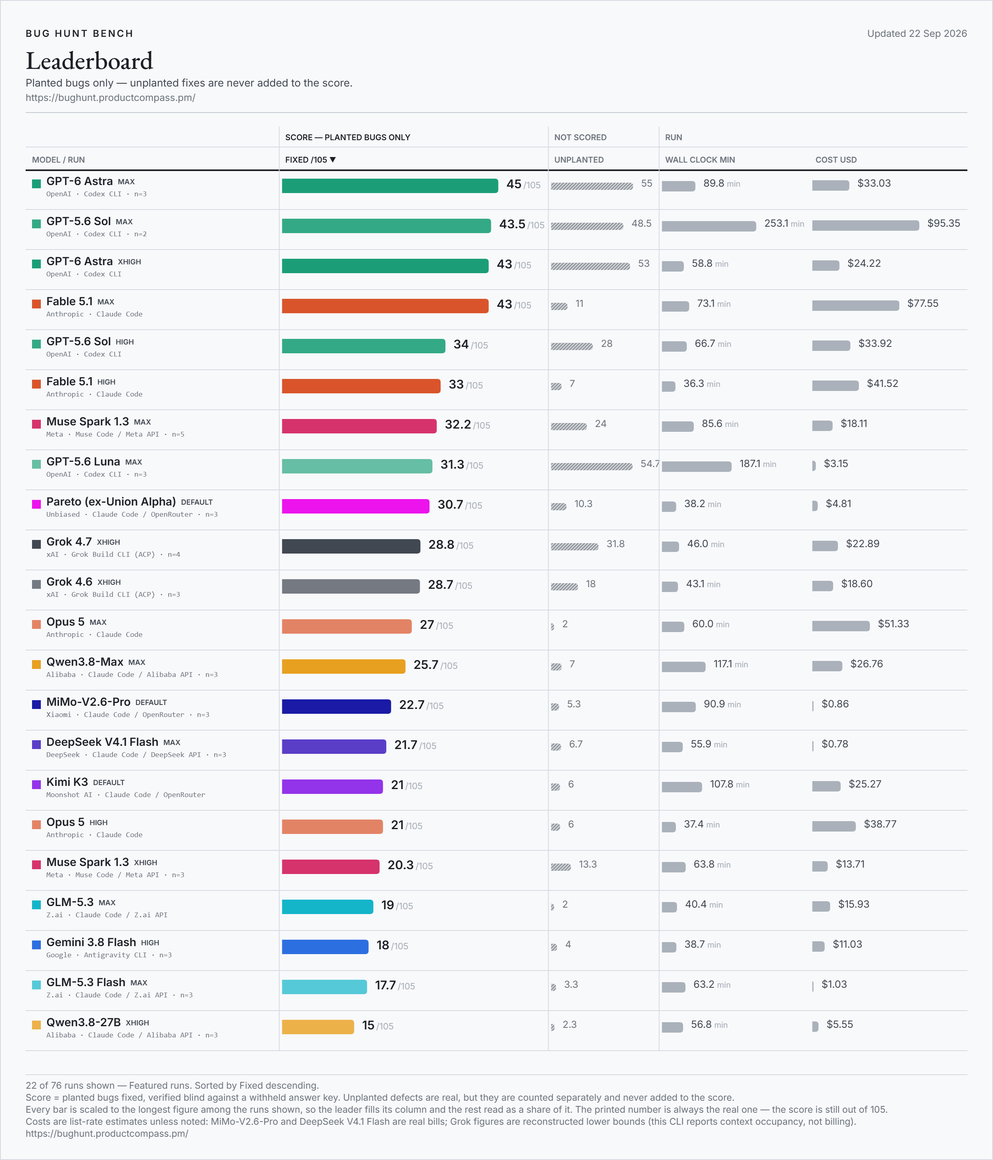
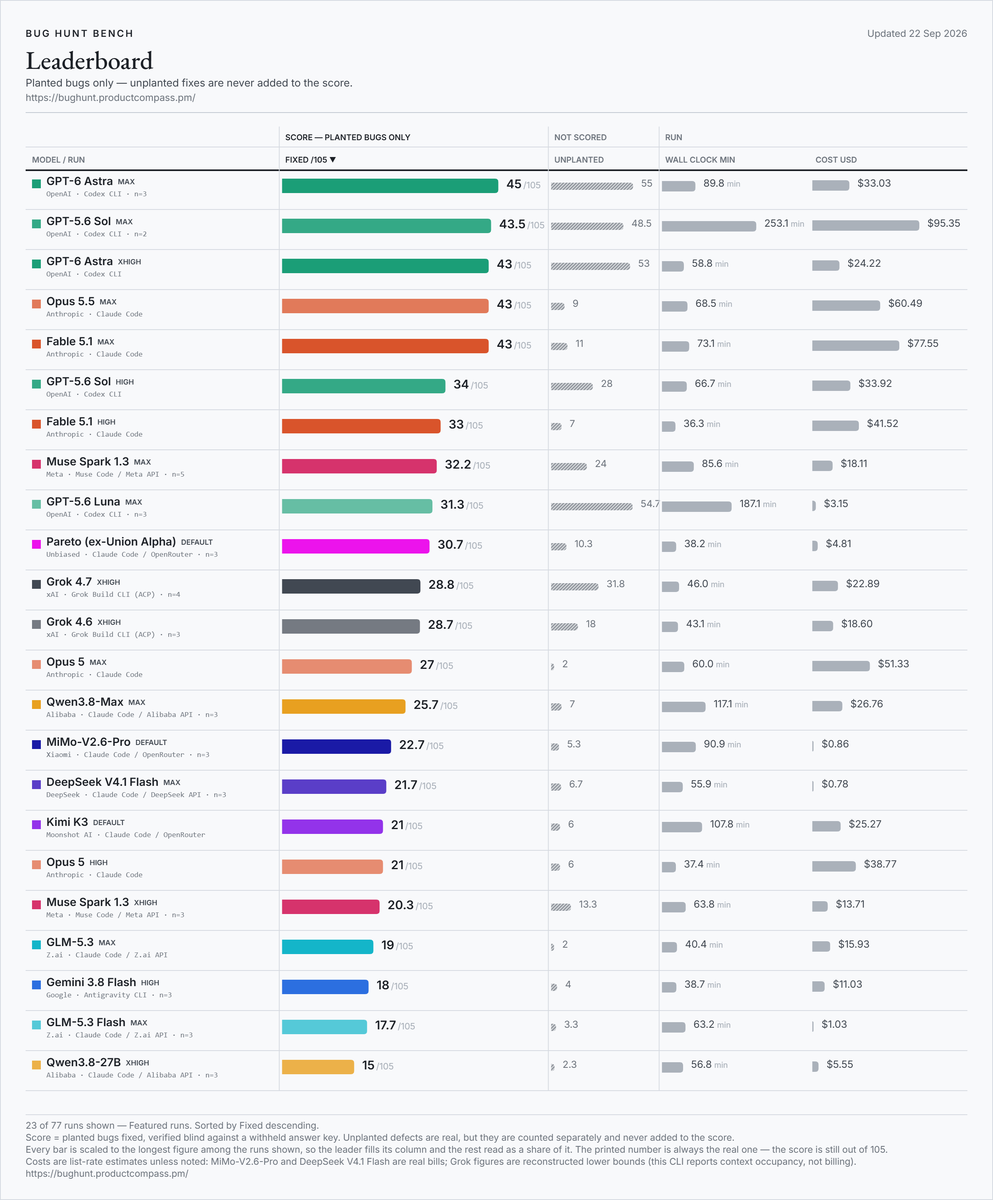
bug hunt bench: Opus 5.5 (max effort) (43/105)

diff --git a/index.html b/index.html
@@ -22,14 +22,14 @@
 <meta property="og:title" content="Bug Hunt Bench — frontier coding models against real planted bugs">
 <meta property="og:description" content="A blind-graded benchmark of frontier coding models on real bugs planted in two production codebases. The score counts planted bugs only; extra fixes are tracked separately and never added.">
 <meta property="og:url" content="https://bughunt.productcompass.pm/">
-<meta property="og:image" content="https://bughunt.productcompass.pm/og-image.png?v=2026-09-22-73a73a32">
+<meta property="og:image" content="https://bughunt.productcompass.pm/og-image.png?v=2026-09-22-9d6f25a9">
 <meta property="og:image:width" content="1200">
 <meta property="og:image:height" content="630">
 <meta property="og:image:alt" content="Bug Hunt Bench leaderboard">
 <meta name="twitter:card" content="summary_large_image">
 <meta name="twitter:title" content="Bug Hunt Bench — frontier coding models against real planted bugs">
 <meta name="twitter:description" content="A blind-graded benchmark of frontier coding models on real bugs planted in two production codebases. The score counts planted bugs only.">
-<meta name="twitter:image" content="https://bughunt.productcompass.pm/og-image.png?v=2026-09-22-73a73a32">
+<meta name="twitter:image" content="https://bughunt.productcompass.pm/og-image.png?v=2026-09-22-9d6f25a9">
 <meta name="twitter:creator" content="@PawelHuryn">
 
 <link rel="icon" href="/assets/favicon.svg" type="image/svg+xml">

diff --git a/method.html b/method.html
@@ -20,14 +20,14 @@
 <meta property="og:title" content="Method, caveats and definitions — Bug Hunt Bench">
 <meta property="og:description" content="How Bug Hunt Bench is run and graded, what the board cannot tell you, and what every column on it means.">
 <meta property="og:url" content="https://bughunt.productcompass.pm/method">
-<meta property="og:image" content="https://bughunt.productcompass.pm/og-image.png?v=2026-09-22-73a73a32">
+<meta property="og:image" content="https://bughunt.productcompass.pm/og-image.png?v=2026-09-22-9d6f25a9">
 <meta property="og:image:width" content="1200">
 <meta property="og:image:height" content="630">
 <meta property="og:image:alt" content="Bug Hunt Bench leaderboard">
 <meta name="twitter:card" content="summary_large_image">
 <meta name="twitter:title" content="Method, caveats and definitions — Bug Hunt Bench">
 <meta name="twitter:description" content="How Bug Hunt Bench is run and graded, what the board cannot tell you, and what every column on it means.">
-<meta name="twitter:image" content="https://bughunt.productcompass.pm/og-image.png?v=2026-09-22-73a73a32">
+<meta name="twitter:image" content="https://bughunt.productcompass.pm/og-image.png?v=2026-09-22-9d6f25a9">
 <meta name="twitter:creator" content="@PawelHuryn">
 
 <link rel="icon" href="/assets/favicon.svg" type="image/svg+xml">

diff --git a/README.md b/README.md
@@ -7,92 +7,93 @@
 If the numbers save you a benchmark run of your own, **star this repo** — that is what keeps the bench findable, and new models are added as they ship.
 
 <!-- leaderboard:start -->
-![Bug Hunt Bench leaderboard, the featured runs, updated Sep 22, 2026](assets/leaderboard.png?v=2026-09-22-a6f0254f)
+![Bug Hunt Bench leaderboard, the featured runs, updated Sep 22, 2026](assets/leaderboard.png?v=2026-09-22-f92f422d)
 
-**Updated Sep 22, 2026 · 113 rows from 167 scored runs · 34 models · 32 of 105 bugs have never been fixed by any model.**
+**Updated Sep 22, 2026 · 114 rows from 168 scored runs · 35 models · 32 of 105 bugs have never been fixed by any model.**
 
 **Current leader:** GPT-6 Astra at `max` effort — **45 / 105** (22/45 on repo 1, 23/60 on repo 2).
 
-**Best per lab:** OpenAI: GPT-6 Astra (`max`) 45 · Anthropic: Fable 5.1 (`max`) 43 · Meta: Muse Spark 1.3 (`max`) 32.2 · Unbiased: Pareto (ex-Union Alpha) (`default`) 30.7 · xAI: Grok 4.7 (`xhigh`) 28.8 · Alibaba: Qwen3.8-Flash (`max`) 26 · Xiaomi: MiMo-V2.6-Pro (`default`) 22.7 · Google: Gemini 3.7 Flash (`high`) 22 · DeepSeek: DeepSeek V4.1 Flash (`max`) 21.7 · Moonshot AI: Kimi K3 (`default`) 21 · Z.ai: GLM-5.3 (`max`) 19 · Tencent: Hy4 Preview (`default`) 18
+**Best per lab:** OpenAI: GPT-6 Astra (`max`) 45 · Anthropic: Opus 5.5 (`max`) 43 · Meta: Muse Spark 1.3 (`max`) 32.2 · Unbiased: Pareto (ex-Union Alpha) (`default`) 30.7 · xAI: Grok 4.7 (`xhigh`) 28.8 · Alibaba: Qwen3.8-Flash (`max`) 26 · Xiaomi: MiMo-V2.6-Pro (`default`) 22.7 · Google: Gemini 3.7 Flash (`high`) 22 · DeepSeek: DeepSeek V4.1 Flash (`max`) 21.7 · Moonshot AI: Kimi K3 (`default`) 21 · Z.ai: GLM-5.3 (`max`) 19 · Tencent: Hy4 Preview (`default`) 18
 
 | # | Model | Harness | Effort | Runs | Fixed /105 | Repo 1 /45 | Repo 2 /60 | Extras | Wall | Cost | Date |
 |--:|---|---|---|--:|--:|--:|--:|--:|--:|--:|---|
 | 1 | GPT-6 Astra | Codex CLI | max | 3 | **45** | 22 | 23 | 55 | 90 min | $33.03 | 2026-09-14 |
 | 2 | GPT-5.6 Sol | Codex CLI | max | 2 | **43.5** | 19 | 24.5 | 48.5 | 253 min | $95.35 | 2026-09-16 |
 | 3 | GPT-6 Astra | Codex CLI | xhigh | 1 | **43** | 23 | 20 | 53 | 59 min | $24.22 | 2026-09-04 |
-| 4 | Fable 5.1 | Claude Code | max | 1 | **43** | 19 | 24 | 11 | 73 min | $77.55 | 2026-09-01 |
-| 5 | GPT-5.6 Sol | Codex CLI | xhigh | 1 | **39** | 18 | 21 | 59 | 126 min | $52.75 | 2026-08-28 |
-| 6 | GPT-6 Astra | Codex CLI | high | 1 | **35** | 19 | 16 | 40 | 40 min | $20.60 | 2026-09-04 |
-| 7 | GPT-6 Astra | Codex CLI | medium | 1 | **34** | 19 | 15 | 33 | 28 min | $15.78 | 2026-09-05 |
-| 8 | GPT-5.6 Sol | Codex CLI | high | 1 | **34** | 13 | 21 | 28 | 67 min | $33.92 | 2026-07-31 |
-| 9 | Fable 5.1 | Claude Code | high | 1 | **33** | 15 | 18 | 7 | 36 min | $41.52 | 2026-09-01 |
-| 10 | Muse Spark 1.3 | Muse Code / Meta API | max | 5 | **32.2** | 14.2 | 18 | 24 | 86 min | $18.11 | 2026-09-17 |
-| 11 | GPT-5.6 Terra | Codex CLI | max | 1 | **32** | 16 | 16 | 45 | 160 min | $27.98 | 2026-08-27 |
-| 12 | GPT-5.6 Luna | Codex CLI | max | 3 | **31.3** | 16 | 15.3 | 54.7 | 187 min | $3.15 | 2026-09-22 |
-| 13 | Pareto (ex-Union Alpha) | Claude Code / OpenRouter | default | 3 | **30.7** | 16 | 14.7 | 10.3 | 38 min | $4.81 | 2026-09-17 |
-| 14 | GPT-5.6 Sol | Codex CLI | medium | 1 | **29** | 13 | 16 | 24 | 48 min | $15.77 | 2026-09-06 |
-| 15 | Fable 5.1 | Claude Code | low | 1 | **29** | 13 | 16 | 6 | 33 min | $27.27 | 2026-09-02 |
-| 16 | Fable 5.1 | Claude Code | xhigh | 1 | **29** | 13 | 16 | 4 | 60 min | $40.42 | 2026-09-10 |
-| 17 | Fable 5 | Claude Code | max | 1 | **29** | 12 | 17 | 5 | 57 min | $104.49 | 2026-08-01 |
-| 18 | Grok 4.7 | Grok Build CLI (ACP) | xhigh | 4 | **28.8** | 13 | 15.8 | 31.8 | 46 min | $22.89 floor | 2026-09-21 |
-| 19 | Grok 4.6 | Grok Build CLI (ACP) | xhigh | 3 | **28.7** | 11.7 | 17 | 18 | 43 min | $18.60 floor | 2026-09-14 |
-| 20 | GPT-6 Astra | Codex CLI | low | 1 | **27** | 18 | 9 | 25 | 32 min | $11.69 | 2026-09-05 |
-| 21 | Opus 5 | Claude Code | max | 1 | **27** | 13 | 14 | 2 | 60 min | $51.33 | 2026-08-01 |
-| 22 | Grok 4.7 | Grok Build CLI (ACP) | medium | 3 | **26.7** | 12 | 14.7 | 22.7 | 31 min | $16.76 floor | 2026-09-21 |
-| 23 | Qwen3.8-Flash | Claude Code / Alibaba API | max | 1 | **26** | 13 | 13 | 7 | 97 min | $1.81 | 2026-09-11 |
-| 24 | Opus 5 | Claude Code | xhigh | 1 | **26** | 14 | 12 | 3 | 50 min | $59.59 | 2026-08-28 |
-| 25 | Qwen3.8-Max | Claude Code / Alibaba API | max | 3 | **25.7** | 12.3 | 13.3 | 7 | 117 min | $26.76 | 2026-09-15 |
-| 26 | Opus 5 | Claude Code | medium | 1 | **24** | 11 | 13 | 4 | 30 min | $34.77 | 2026-08-27 |
-| 27 | Fable 5 | Claude Code | high | 1 | **24** | 9 | 15 | 3 | 31 min | $68.07 | 2026-07-26 |
-| 28 | Qwen3.8-Flash | Claude Code / Alibaba API | low | 1 | **23** | 11 | 12 | 7 | 98 min | $1.37 | 2026-09-11 |
-| 29 | GPT-5.6 Luna | Codex CLI | xhigh | 1 | **23** | 10 | 13 | 53 | 136 min | $2.50 | 2026-08-28 |
-| 30 | Grok 4.6 | Grok Build CLI (ACP) | high | 1 | **23** | 7 | 16 | 16 | 33 min | $15.73 floor | 2026-08-28 |
-| 31 | MiMo-V2.6-Pro | Claude Code / OpenRouter | default | 3 | **22.7** | 11.3 | 11.3 | 5.3 | 91 min | $0.86 bill | 2026-09-22 |
-| 32 | Grok 4.6 | Grok Build CLI (ACP) | medium | 1 | **22** | 9 | 13 | 11 | 26 min | $5.80 floor | 2026-08-28 |
-| 33 | Gemini 3.7 Flash | Gemini CLI (retired) + model-pinning gateway | high | 1 | **22** | 8 | 14 | 4 | 97 min | $8.43 | 2026-08-24 |
-| 34 | DeepSeek V4.1 Flash | Claude Code / DeepSeek API | max | 3 | **21.7** | 11.3 | 10.3 | 6.7 | 56 min | $0.78 bill | 2026-09-15 |
-| 35 | Fable 5.1 | Claude Code | medium | 1 | **21** | 8 | 13 | 3 | 23 min | $17.46 | 2026-09-10 |
-| 36 | Kimi K3 | Claude Code / OpenRouter | default | 1 | **21** | 4 | 17 | 6 | 108 min | $25.27 | 2026-07-26 |
-| 37 | Opus 5 | Claude Code | high | 1 | **21** | 11 | 10 | 6 | 37 min | $38.77 | 2026-07-26 |
-| 38 | Muse Spark 1.3 | Muse Code / Meta API | xhigh | 3 | **20.3** | 8 | 12.3 | 13.3 | 64 min | $13.71 | 2026-09-14 |
-| 39 | GPT-5.6 Terra | Codex CLI | xhigh | 1 | **20** | 9 | 11 | 29 | 57 min | $8.98 | 2026-08-28 |
-| 40 | Grok 4.7 | Grok Build CLI (ACP) | high | 3 | **19.3** | 8.7 | 10.7 | 15.7 | 38 min | $12.29 floor | 2026-09-21 |
-| 41 | DeepSeek V4.1 Flash | Claude Code / DeepSeek API | high | 1 | **19** | 9 | 10 | 4 | 26 min | $0.31 bill | 2026-09-10 |
-| 42 | GLM-5.3 | Claude Code / Z.ai API | max | 1 | **19** | 9 | 10 | 2 | 40 min | $15.93 | 2026-09-10 |
-| 43 | Muse Spark 1.3 | Muse Code / Meta API | high | 3 | **18.7** | 8.7 | 10 | 19.3 | 76 min | $12.94 | 2026-09-14 |
-| 44 | MiMo-V2.6-Pro | Claude Code / Xiaomi first-party | enabled | 1 | **18** | 9 | 9 | 4 | 75 min | $0.59 | 2026-09-22 |
-| 45 | Hy4 Preview | Claude Code / OpenRouter | default | 1 | **18** | 9 | 9 | 2 | 68 min | $3.13 bill | 2026-08-28 |
-| 46 | GPT-5.6 Terra | Codex CLI | high | 1 | **18** | 7 | 11 | 17 | 28 min | $5.89 | 2026-08-27 |
-| 47 | Gemini 3.8 Flash | Antigravity CLI | high | 3 | **18** | 6.7 | 11.3 | 4 | 39 min | $11.03 | 2026-09-15 |
-| 48 | GLM-5.3 Flash | Claude Code / Z.ai API | max | 3 | **17.7** | 9.3 | 8.3 | 3.3 | 63 min | $1.03 | 2026-09-15 |
-| 49 | Grok 4.5 | Grok Build CLI (ACP) | high | 1 | **17** | 5 | 12 | 10 | 28 min | $8.50 floor | 2026-08-06 |
-| 50 | Muse Spark 1.2 | Claude Code / Meta API | xhigh | 1 | **17** | 6 | 11 | 12 | 36 min | $13.99 | 2026-08-06 |
-| 51 | Ox Alpha (stealth) | Claude Code / OpenRouter | default | 1 | **16** | 8 | 8 | 3 | 59 min | free | 2026-08-25 |
-| 52 | GLM-5.3 Flash | Claude Code / Z.ai API | high | 1 | **16** | 9 | 7 | 4 | 62 min | $0.94 | 2026-09-13 |
-| 53 | DeepSeek V4-Pro | Claude Code / DeepSeek API | max | 1 | **16** | 8 | 8 | 4 | 37 min | $1.89 bill | 2026-09-10 |
-| 54 | Gemini 3.7 Flash | Antigravity CLI | high | 1 | **16** | 4 | 12 | 2 | 23 min | $6.36 | 2026-08-28 |
-| 55 | Grok 4.7 | Grok Build CLI (ACP) | low | 3 | **15.7** | 10.3 | 5.3 | 18.3 | 22 min | $9.36 floor | 2026-09-21 |
-| 56 | GPT-5.6 Terra | Codex CLI | medium | 1 | **15** | 4 | 11 | 6 | 20 min | $3.87 | 2026-08-27 |
-| 57 | Grok 4.6 | Grok Build CLI (ACP) | low | 1 | **15** | 6 | 9 | 9 | 18 min | $4.14 floor | 2026-08-27 |
-| 58 | Qwen3.8-27B | Claude Code / Alibaba API | xhigh | 3 | **15** | 5.7 | 9.3 | 2.3 | 57 min | $5.55 | 2026-09-15 |
-| 59 | Opus 4.8 | Claude Code | max | 1 | **15** | 6 | 9 | 3 | 109 min | $52.07 | 2026-09-10 |
-| 60 | DeepSeek V4-Flash | Claude Code / OpenRouter | default | 1 | **14** | 6 | 8 | 0 | 48 min | $1.52 bill | 2026-08-01 |
-| 61 | GPT-5.6 Luna | Codex CLI | high | 1 | **13** | 5 | 8 | 22 | 64 min | $0.57 | 2026-07-31 |
-| 62 | GLM-5.3 Flash | Claude Code / OpenRouter | default | 1 | **13** | 6 | 7 | 4 | 57 min | $0.79 bill | 2026-08-27 |
-| 63 | DeepSeek V4-Pro | Claude Code / DeepSeek API | high | 1 | **13** | 4 | 9 | 1 | 27 min | $1.08 bill | 2026-09-10 |
-| 64 | Muse Spark 1.3 | Muse Code / Meta API | medium | 3 | **13** | 5.3 | 7.7 | 17.3 | 58 min | $9.24 | 2026-09-14 |
-| 65 | Qwen3.8-27B 8-bit | Claude Code / OpenRouter | default | 3 | **10.7** | 3.7 | 7 | 1.7 | 57 min | $2.97 bill | 2026-09-16 |
-| 66 | Muse Spark 1.3 | Muse Code / Meta API | low | 3 | **9.7** | 5 | 4.7 | 6.7 | 36 min | $5.61 | 2026-09-14 |
-| 67 | GPT-5.6 Luna | Codex CLI | medium | 1 | **9** | 5 | 4 | 5 | 15 min | $0.33 | 2026-08-27 |
-| 68 | GLM-5.3 Flash | Claude Code / Z.ai API | low | 1 | **9** | 7 | 2 | 4 | 29 min | $0.42 | 2026-09-13 |
-| 69 | Sonnet 5 | Claude Code | high | 1 | **9** | 1 | 8 | 4 | 33 min | $15.12 | 2026-07-26 |
-| 70 | Opus 4.8 | Claude Code | high | 1 | **9** | 2 | 7 | 1 | 35 min | $19.35 | 2026-07-26 |
-| 71 | Sonnet 5 | Claude Code | max | 1 | **9** | 3 | 6 | 3 | 61 min | $24.04 | 2026-09-10 |
-| 72 | GPT-5.6 Luna | Codex CLI | low | 1 | **4** | 0 | 4 | 1 | 6 min | $0.10 | 2026-08-27 |
-| 73 | Gemma 4 31B | Claude Code / OpenRouter | default | 1 | **4** | 1 | 3 | 2 | 222 min | $8.61 bill | 2026-09-16 |
-| 74 | Gemma 4 31B 4-bit | Claude Code / OpenRouter | default | 1 | **3** | 1 | 2 | 2 | 25 min | $0.56 bill | 2026-09-16 |
-| 75 | gpt-oss-120b | Claude Code / OpenRouter | default | 3 | **0** | 0 | 0 | 0.3 | 4 min | $0.11 bill | 2026-09-15 |
-| 76 | gpt-oss-20b | Claude Code / OpenRouter | default | 3 | **0** | 0 | 0 | 0 | 7 min | $0.11 bill | 2026-09-15 |
+| 4 | Opus 5.5 | Claude Code | max | 1 | **43** | 18 | 25 | 9 | 68 min | $60.49 | 2026-09-22 |
+| 5 | Fable 5.1 | Claude Code | max | 1 | **43** | 19 | 24 | 11 | 73 min | $77.55 | 2026-09-01 |
+| 6 | GPT-5.6 Sol | Codex CLI | xhigh | 1 | **39** | 18 | 21 | 59 | 126 min | $52.75 | 2026-08-28 |
+| 7 | GPT-6 Astra | Codex CLI | high | 1 | **35** | 19 | 16 | 40 | 40 min | $20.60 | 2026-09-04 |
+| 8 | GPT-6 Astra | Codex CLI | medium | 1 | **34** | 19 | 15 | 33 | 28 min | $15.78 | 2026-09-05 |
+| 9 | GPT-5.6 Sol | Codex CLI | high | 1 | **34** | 13 | 21 | 28 | 67 min | $33.92 | 2026-07-31 |
+| 10 | Fable 5.1 | Claude Code | high | 1 | **33** | 15 | 18 | 7 | 36 min | $41.52 | 2026-09-01 |
+| 11 | Muse Spark 1.3 | Muse Code / Meta API | max | 5 | **32.2** | 14.2 | 18 | 24 | 86 min | $18.11 | 2026-09-17 |
+| 12 | GPT-5.6 Terra | Codex CLI | max | 1 | **32** | 16 | 16 | 45 | 160 min | $27.98 | 2026-08-27 |
+| 13 | GPT-5.6 Luna | Codex CLI | max | 3 | **31.3** | 16 | 15.3 | 54.7 | 187 min | $3.15 | 2026-09-22 |
+| 14 | Pareto (ex-Union Alpha) | Claude Code / OpenRouter | default | 3 | **30.7** | 16 | 14.7 | 10.3 | 38 min | $4.81 | 2026-09-17 |
+| 15 | GPT-5.6 Sol | Codex CLI | medium | 1 | **29** | 13 | 16 | 24 | 48 min | $15.77 | 2026-09-06 |
+| 16 | Fable 5.1 | Claude Code | low | 1 | **29** | 13 | 16 | 6 | 33 min | $27.27 | 2026-09-02 |
+| 17 | Fable 5.1 | Claude Code | xhigh | 1 | **29** | 13 | 16 | 4 | 60 min | $40.42 | 2026-09-10 |
+| 18 | Fable 5 | Claude Code | max | 1 | **29** | 12 | 17 | 5 | 57 min | $104.49 | 2026-08-01 |
+| 19 | Grok 4.7 | Grok Build CLI (ACP) | xhigh | 4 | **28.8** | 13 | 15.8 | 31.8 | 46 min | $22.89 floor | 2026-09-21 |
+| 20 | Grok 4.6 | Grok Build CLI (ACP) | xhigh | 3 | **28.7** | 11.7 | 17 | 18 | 43 min | $18.60 floor | 2026-09-14 |
+| 21 | GPT-6 Astra | Codex CLI | low | 1 | **27** | 18 | 9 | 25 | 32 min | $11.69 | 2026-09-05 |
+| 22 | Opus 5 | Claude Code | max | 1 | **27** | 13 | 14 | 2 | 60 min | $51.33 | 2026-08-01 |
+| 23 | Grok 4.7 | Grok Build CLI (ACP) | medium | 3 | **26.7** | 12 | 14.7 | 22.7 | 31 min | $16.76 floor | 2026-09-21 |
+| 24 | Qwen3.8-Flash | Claude Code / Alibaba API | max | 1 | **26** | 13 | 13 | 7 | 97 min | $1.81 | 2026-09-11 |
+| 25 | Opus 5 | Claude Code | xhigh | 1 | **26** | 14 | 12 | 3 | 50 min | $59.59 | 2026-08-28 |
+| 26 | Qwen3.8-Max | Claude Code / Alibaba API | max | 3 | **25.7** | 12.3 | 13.3 | 7 | 117 min | $26.76 | 2026-09-15 |
+| 27 | Opus 5 | Claude Code | medium | 1 | **24** | 11 | 13 | 4 | 30 min | $34.77 | 2026-08-27 |
+| 28 | Fable 5 | Claude Code | high | 1 | **24** | 9 | 15 | 3 | 31 min | $68.07 | 2026-07-26 |
+| 29 | Qwen3.8-Flash | Claude Code / Alibaba API | low | 1 | **23** | 11 | 12 | 7 | 98 min | $1.37 | 2026-09-11 |
+| 30 | GPT-5.6 Luna | Codex CLI | xhigh | 1 | **23** | 10 | 13 | 53 | 136 min | $2.50 | 2026-08-28 |
+| 31 | Grok 4.6 | Grok Build CLI (ACP) | high | 1 | **23** | 7 | 16 | 16 | 33 min | $15.73 floor | 2026-08-28 |
+| 32 | MiMo-V2.6-Pro | Claude Code / OpenRouter | default | 3 | **22.7** | 11.3 | 11.3 | 5.3 | 91 min | $0.86 bill | 2026-09-22 |
+| 33 | Grok 4.6 | Grok Build CLI (ACP) | medium | 1 | **22** | 9 | 13 | 11 | 26 min | $5.80 floor | 2026-08-28 |
+| 34 | Gemini 3.7 Flash | Gemini CLI (retired) + model-pinning gateway | high | 1 | **22** | 8 | 14 | 4 | 97 min | $8.43 | 2026-08-24 |
+| 35 | DeepSeek V4.1 Flash | Claude Code / DeepSeek API | max | 3 | **21.7** | 11.3 | 10.3 | 6.7 | 56 min | $0.78 bill | 2026-09-15 |
+| 36 | Fable 5.1 | Claude Code | medium | 1 | **21** | 8 | 13 | 3 | 23 min | $17.46 | 2026-09-10 |
+| 37 | Kimi K3 | Claude Code / OpenRouter | default | 1 | **21** | 4 | 17 | 6 | 108 min | $25.27 | 2026-07-26 |
+| 38 | Opus 5 | Claude Code | high | 1 | **21** | 11 | 10 | 6 | 37 min | $38.77 | 2026-07-26 |
+| 39 | Muse Spark 1.3 | Muse Code / Meta API | xhigh | 3 | **20.3** | 8 | 12.3 | 13.3 | 64 min | $13.71 | 2026-09-14 |
+| 40 | GPT-5.6 Terra | Codex CLI | xhigh | 1 | **20** | 9 | 11 | 29 | 57 min | $8.98 | 2026-08-28 |
+| 41 | Grok 4.7 | Grok Build CLI (ACP) | high | 3 | **19.3** | 8.7 | 10.7 | 15.7 | 38 min | $12.29 floor | 2026-09-21 |
+| 42 | DeepSeek V4.1 Flash | Claude Code / DeepSeek API | high | 1 | **19** | 9 | 10 | 4 | 26 min | $0.31 bill | 2026-09-10 |
+| 43 | GLM-5.3 | Claude Code / Z.ai API | max | 1 | **19** | 9 | 10 | 2 | 40 min | $15.93 | 2026-09-10 |
+| 44 | Muse Spark 1.3 | Muse Code / Meta API | high | 3 | **18.7** | 8.7 | 10 | 19.3 | 76 min | $12.94 | 2026-09-14 |
+| 45 | MiMo-V2.6-Pro | Claude Code / Xiaomi first-party | enabled | 1 | **18** | 9 | 9 | 4 | 75 min | $0.59 | 2026-09-22 |
+| 46 | Hy4 Preview | Claude Code / OpenRouter | default | 1 | **18** | 9 | 9 | 2 | 68 min | $3.13 bill | 2026-08-28 |
+| 47 | GPT-5.6 Terra | Codex CLI | high | 1 | **18** | 7 | 11 | 17 | 28 min | $5.89 | 2026-08-27 |
+| 48 | Gemini 3.8 Flash | Antigravity CLI | high | 3 | **18** | 6.7 | 11.3 | 4 | 39 min | $11.03 | 2026-09-15 |
+| 49 | GLM-5.3 Flash | Claude Code / Z.ai API | max | 3 | **17.7** | 9.3 | 8.3 | 3.3 | 63 min | $1.03 | 2026-09-15 |
+| 50 | Grok 4.5 | Grok Build CLI (ACP) | high | 1 | **17** | 5 | 12 | 10 | 28 min | $8.50 floor | 2026-08-06 |
+| 51 | Muse Spark 1.2 | Claude Code / Meta API | xhigh | 1 | **17** | 6 | 11 | 12 | 36 min | $13.99 | 2026-08-06 |
+| 52 | Ox Alpha (stealth) | Claude Code / OpenRouter | default | 1 | **16** | 8 | 8 | 3 | 59 min | free | 2026-08-25 |
+| 53 | GLM-5.3 Flash | Claude Code / Z.ai API | high | 1 | **16** | 9 | 7 | 4 | 62 min | $0.94 | 2026-09-13 |
+| 54 | DeepSeek V4-Pro | Claude Code / DeepSeek API | max | 1 | **16** | 8 | 8 | 4 | 37 min | $1.89 bill | 2026-09-10 |
+| 55 | Gemini 3.7 Flash | Antigravity CLI | high | 1 | **16** | 4 | 12 | 2 | 23 min | $6.36 | 2026-08-28 |
+| 56 | Grok 4.7 | Grok Build CLI (ACP) | low | 3 | **15.7** | 10.3 | 5.3 | 18.3 | 22 min | $9.36 floor | 2026-09-21 |
+| 57 | GPT-5.6 Terra | Codex CLI | medium | 1 | **15** | 4 | 11 | 6 | 20 min | $3.87 | 2026-08-27 |
+| 58 | Grok 4.6 | Grok Build CLI (ACP) | low | 1 | **15** | 6 | 9 | 9 | 18 min | $4.14 floor | 2026-08-27 |
+| 59 | Qwen3.8-27B | Claude Code / Alibaba API | xhigh | 3 | **15** | 5.7 | 9.3 | 2.3 | 57 min | $5.55 | 2026-09-15 |
+| 60 | Opus 4.8 | Claude Code | max | 1 | **15** | 6 | 9 | 3 | 109 min | $52.07 | 2026-09-10 |
+| 61 | DeepSeek V4-Flash | Claude Code / OpenRouter | default | 1 | **14** | 6 | 8 | 0 | 48 min | $1.52 bill | 2026-08-01 |
+| 62 | GPT-5.6 Luna | Codex CLI | high | 1 | **13** | 5 | 8 | 22 | 64 min | $0.57 | 2026-07-31 |
+| 63 | GLM-5.3 Flash | Claude Code / OpenRouter | default | 1 | **13** | 6 | 7 | 4 | 57 min | $0.79 bill | 2026-08-27 |
+| 64 | DeepSeek V4-Pro | Claude Code / DeepSeek API | high | 1 | **13** | 4 | 9 | 1 | 27 min | $1.08 bill | 2026-09-10 |
+| 65 | Muse Spark 1.3 | Muse Code / Meta API | medium | 3 | **13** | 5.3 | 7.7 | 17.3 | 58 min | $9.24 | 2026-09-14 |
+| 66 | Qwen3.8-27B 8-bit | Claude Code / OpenRouter | default | 3 | **10.7** | 3.7 | 7 | 1.7 | 57 min | $2.97 bill | 2026-09-16 |
+| 67 | Muse Spark 1.3 | Muse Code / Meta API | low | 3 | **9.7** | 5 | 4.7 | 6.7 | 36 min | $5.61 | 2026-09-14 |
+| 68 | GPT-5.6 Luna | Codex CLI | medium | 1 | **9** | 5 | 4 | 5 | 15 min | $0.33 | 2026-08-27 |
+| 69 | GLM-5.3 Flash | Claude Code / Z.ai API | low | 1 | **9** | 7 | 2 | 4 | 29 min | $0.42 | 2026-09-13 |
+| 70 | Sonnet 5 | Claude Code | high | 1 | **9** | 1 | 8 | 4 | 33 min | $15.12 | 2026-07-26 |
+| 71 | Opus 4.8 | Claude Code | high | 1 | **9** | 2 | 7 | 1 | 35 min | $19.35 | 2026-07-26 |
+| 72 | Sonnet 5 | Claude Code | max | 1 | **9** | 3 | 6 | 3 | 61 min | $24.04 | 2026-09-10 |
+| 73 | GPT-5.6 Luna | Codex CLI | low | 1 | **4** | 0 | 4 | 1 | 6 min | $0.10 | 2026-08-27 |
+| 74 | Gemma 4 31B | Claude Code / OpenRouter | default | 1 | **4** | 1 | 3 | 2 | 222 min | $8.61 bill | 2026-09-16 |
+| 75 | Gemma 4 31B 4-bit | Claude Code / OpenRouter | default | 1 | **3** | 1 | 2 | 2 | 25 min | $0.56 bill | 2026-09-16 |
+| 76 | gpt-oss-120b | Claude Code / OpenRouter | default | 3 | **0** | 0 | 0 | 0.3 | 4 min | $0.11 bill | 2026-09-15 |
+| 77 | gpt-oss-20b | Claude Code / OpenRouter | default | 3 | **0** | 0 | 0 | 0 | 7 min | $0.11 bill | 2026-09-15 |
 
 **Runs** is how many independent runs the row is built from. A row at `1` is a single measurement. A row above `1` is the MEAN of that many runs of an identical configuration - same model, prompt, harness, route, effort flag and judge - and every count, wall and cost on it is averaged, which is why those rows carry a decimal. The individual runs behind a mean are published in full in the metrics CSVs, so the spread stays auditable: this board has measured a 9-point range of 105 on a fixed configuration, so a single run is not a measurement of a model, and two rows at `1` that differ by a few points may not differ at all.
 

diff --git a/results/run-notes.md b/results/run-notes.md
@@ -2,7 +2,7 @@
 
 Every row on the board, with the note and caveat it carries. Generated from `data/benchmark.json` by `bench_golive.py` - do not edit by hand.
 
-Updated Sep 22, 2026 · 113 rows from 167 scored runs. Superseded rows are listed last.
+Updated Sep 22, 2026 · 114 rows from 168 scored runs. Superseded rows are listed last.
 
 ## GPT-6 Astra (max effort) - mean of 3
 
@@ -23,6 +23,14 @@ THE FIRST REPLICATION OF THIS MODEL'S TOP EFFORT SETTING. Runs scored 40 and 47 
 ## GPT-6 Astra (xhigh effort)
 
 **43 / 105** · repo 1 23/45 · repo 2 20/60 · 53 unplanted · 58.8 min · $24.22 · `xhigh` · Codex CLI · single run · 2026-09-04
+
+## Opus 5.5 (max effort)
+
+**43 / 105** · repo 1 18/45 · repo 2 25/60 · 9 unplanted · 68.5 min · $60.49 · `max` · Claude Code · single run · 2026-09-22
+
+**Caveat.** ONE RUN, not a mean - and this board has already measured a 13-point spread between two runs of one identical max-effort configuration, so treat 43 as a single draw, not a settled level. Runs a 1M context window with zero compactions; every Opus 5 row here runs 200K and compacted, so the gap against them mixes model version with context and is not a clean version comparison. Cost is a list-rate estimate - verified against the harness's own figure to the cent, but not an invoice. The wall figure is contended.
+
+Anthropic's Opus 5.5 at max effort through Claude Code on the first-party API. 43 of 105: 18 of 45 on repo 1 and 25 of 60 on repo 2, 9 genuine extras, 68.5 minutes, $60.49. ONE RUN. The strongest Anthropic result on this board - the Opus 5 sweep peaked at 27 of 105 (max effort) - and level with the best non-OpenAI rows here. *** READ THE CONTEXT WINDOW BEFORE READING THE GAIN - THIS IS NOT A CLEAN VERSION DELTA *** This arm runs the model string claude-opus-5-5[1m] and therefore a 1M context window: it held a peak of 665,594 tokens and compacted ZERO times, carrying both repos whole through every turn. Every Opus 5 row on this board runs a bare slug, which the CLI treats as a 200K window, and those runs compacted repeatedly mid-task. Two variables moved at once - the model version AND how much of the codebase the model could hold while reasoning about it. The honest claim this row supports is 'Opus 5.5 with a 1M window scores 43', not 'Opus 5.5 is 16 points better than Opus 5'. Separating them needs an Opus 5 arm re-run at [1m], which has not been done. *** THE SUFFIX WAS VERIFIED, NOT ASSUMED *** [1m] is not always honoured: on CLI 2.1.272 the string claude-fable-5-1[1m] was recognised and silently normalised to the bare slug, so an earlier arm on this board requested a window it never received. Probed here before any token was spent, on CLI 2.1.280: init.model returns 'claude-opus-5-5[1m]' verbatim, and the running leg's own init record says the same. *** AUTOCOMPACT RAN AT THE CLI DEFAULT, ALSO DELIBERATE *** A user-level CLAUDE_AUTOCOMPACT_PCT_OVERRIDE=30 had been reaching every leg on this machine, which on a 1M window forces a compaction roughly every 300K tokens - the same setting that turned one earlier arm definition into two different machines six weeks apart. It was removed before this run and its absence re-verified in a leg-shaped probe. *** COST IS A LIST ESTIMATE, BUT A VERIFIED ONE *** $60.49 is token counts at Anthropic's published Opus 5.5 rates: $4 input, $20 output, $0.20 cache read - a 0.05x cache multiplier unique to this model, where every other model here uses 0.1x - and $8 cache write, the 1-hour rate, which is what this harness actually writes. That table reproduces the harness's own computed cost to the cent on both legs (delta $0.00000000), so it is confirmed rather than estimated. It is still not an invoice, hence `list`. The row this arm shipped with initially was 2.02x too high because it inherited Opus 5's price table; the published opus5* rows have the smaller version of the same flaw, understating their own cost about 7 per cent by assuming a 5-minute cache write. Long context carries no surcharge - Anthropic prices the full 1M window at standard rates. *** RECEIPTS *** Both legs exited 0, run SEQUENTIALLY, one repo at a time. Judge: blind Codex gpt-5.5 - an OpenAI model scoring an Anthropic one, so neither the model itself nor a sibling of it. The repo 2 judge returned a malformed empty verdict set on its first attempt and was retried once; the retry is the scored result. The run shared the laptop with benchmark legs from another vendor, which the wall marker discloses - scores, tokens and cost are untouched by that, only the clock.
 
 ## Fable 5.1 (max effort)
 

diff --git a/results/waves.md b/results/waves.md
@@ -3228,3 +3228,44 @@ first. One run, labelled as one: the usual single-draw caveat applies the same a
 this board.
 
 Not featured - a new row joins the default view by decision, not by score (Sep 16).
+
+## Opus 5.5 at max effort — the strongest Anthropic row, and a window you have to read first (Sep 22)
+
+First measurement of Opus 5.5 on this board. One run, Claude Code straight onto Anthropic's own
+API, max effort. **43 of 105**: 18 of 45 on repo 1, 25 of 60 on repo 2, 9 genuine extras, 68.5
+minutes (contended — legs from another vendor shared the box), $60.49.
+
+That is the strongest Anthropic result here by a wide margin. The Opus 5 sweep peaked at 27 of 105
+at the same max effort, and 43 puts this row level with the best non-OpenAI rows on the board.
+
+**Read the context window before reading the gain.** This arm ran with a 1M context window: it held
+a peak of 665,594 tokens and compacted **zero** times, carrying both repos whole through every
+turn. Every Opus 5 row here ran at the 200K window the harness assumes by default, and those runs
+compacted repeatedly mid-task. Two variables moved at once — the model version, and how much of the
+codebase the model could hold while reasoning about it. The claim this row supports is *"Opus 5.5
+with a 1M window scores 43"*, not *"Opus 5.5 is 16 points better than Opus 5"*. Separating the two
+needs an Opus 5 arm re-run at the larger window, which has not been done.
+
+**The window was verified, not assumed.** Requesting 1M is not the same as getting it: an earlier
+Anthropic arm on this board requested the larger window and was silently normalised back to the
+default by the harness, so it measured something other than what its own config said. This time the
+resolved model string was probed before any token was spent, and checked again in the running leg's
+own startup record. Both say the larger window was served.
+
+**A price correction that reaches further than this row.** Opus 5.5's published rates are $4 input,
+$20 output, and $0.20 per million cache reads — a 0.05x cache multiplier, where every other model on
+this board uses 0.1x. Cache reads dominate an agentic run by two orders of magnitude, so that one
+factor is most of the difference. This row's cost was initially computed with Opus 5's table and came
+out 2.02x too high. The corrected table reproduces the harness's own cost figure to the cent on both
+legs. The same audit found the smaller version of the flaw on the published Opus 5 rows: they assume
+a 5-minute cache write when the harness actually writes 1-hour caches, understating their own cost by
+about 7 per cent. Long context itself carries no surcharge — the full window is priced at standard
+rates.
+
+**43 of 105, and not one new bug killed.** The survivor count — bugs no model on this board has ever
+fixed — did not move. Everything Opus 5.5 fixed, something else had already fixed first. A high
+score and a stationary survivor count is the same pattern MiMo showed at the other end of the
+table: these rows are re-covering known ground faster, not opening new ground.
+
+One run, labelled as one. This board has already measured a 13-point spread between two runs of a
+single identical max-effort configuration, so treat 43 as one draw rather than a settled level.
